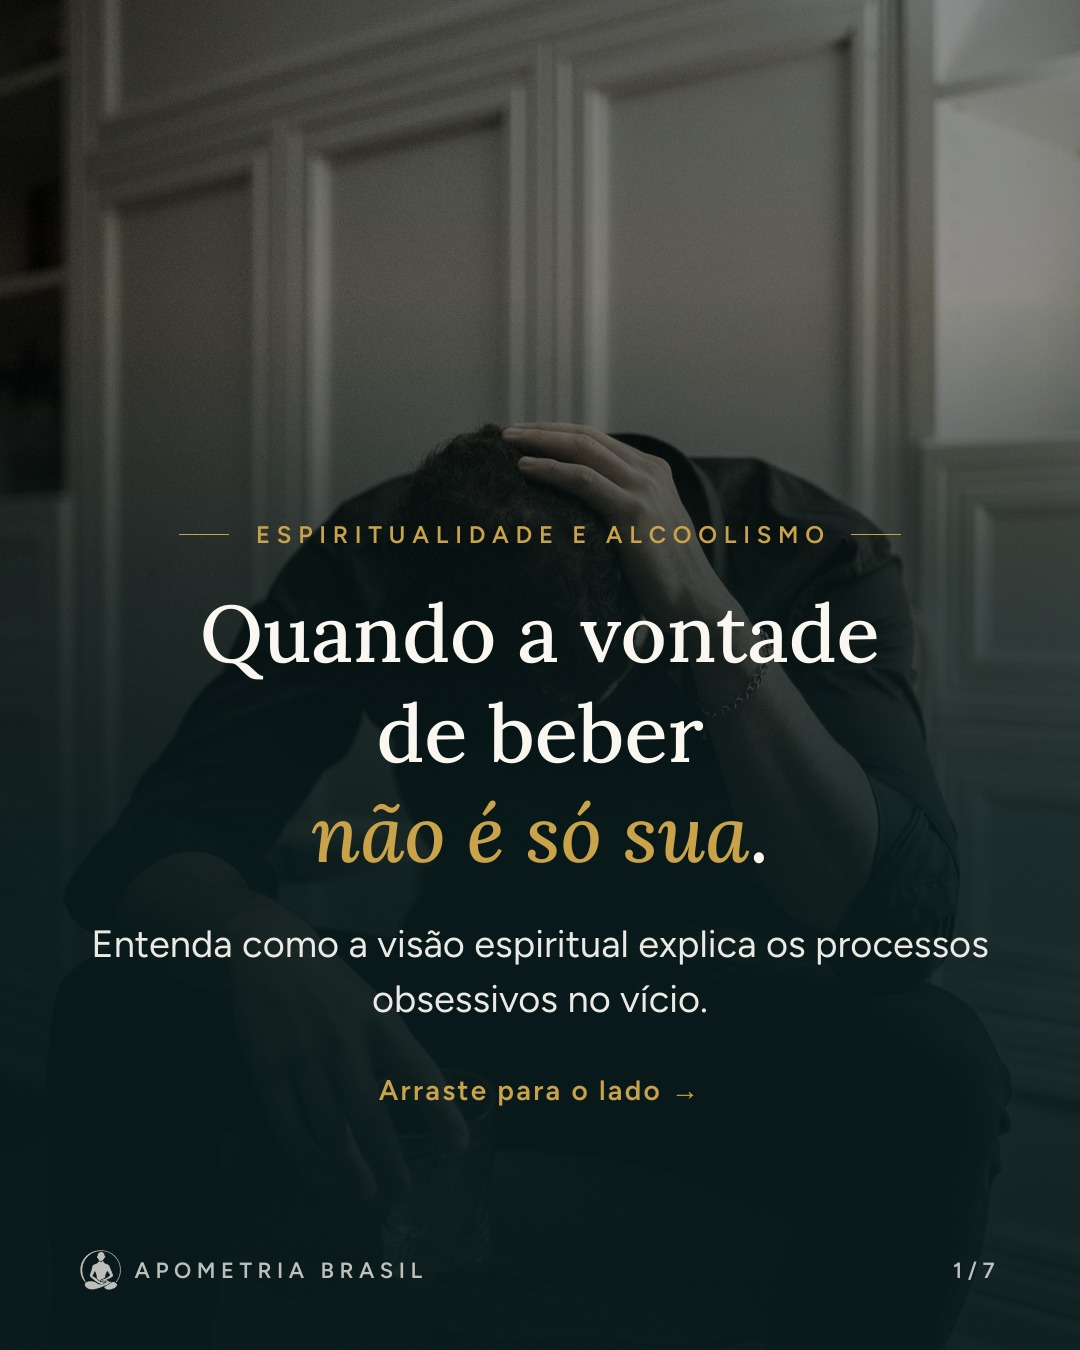
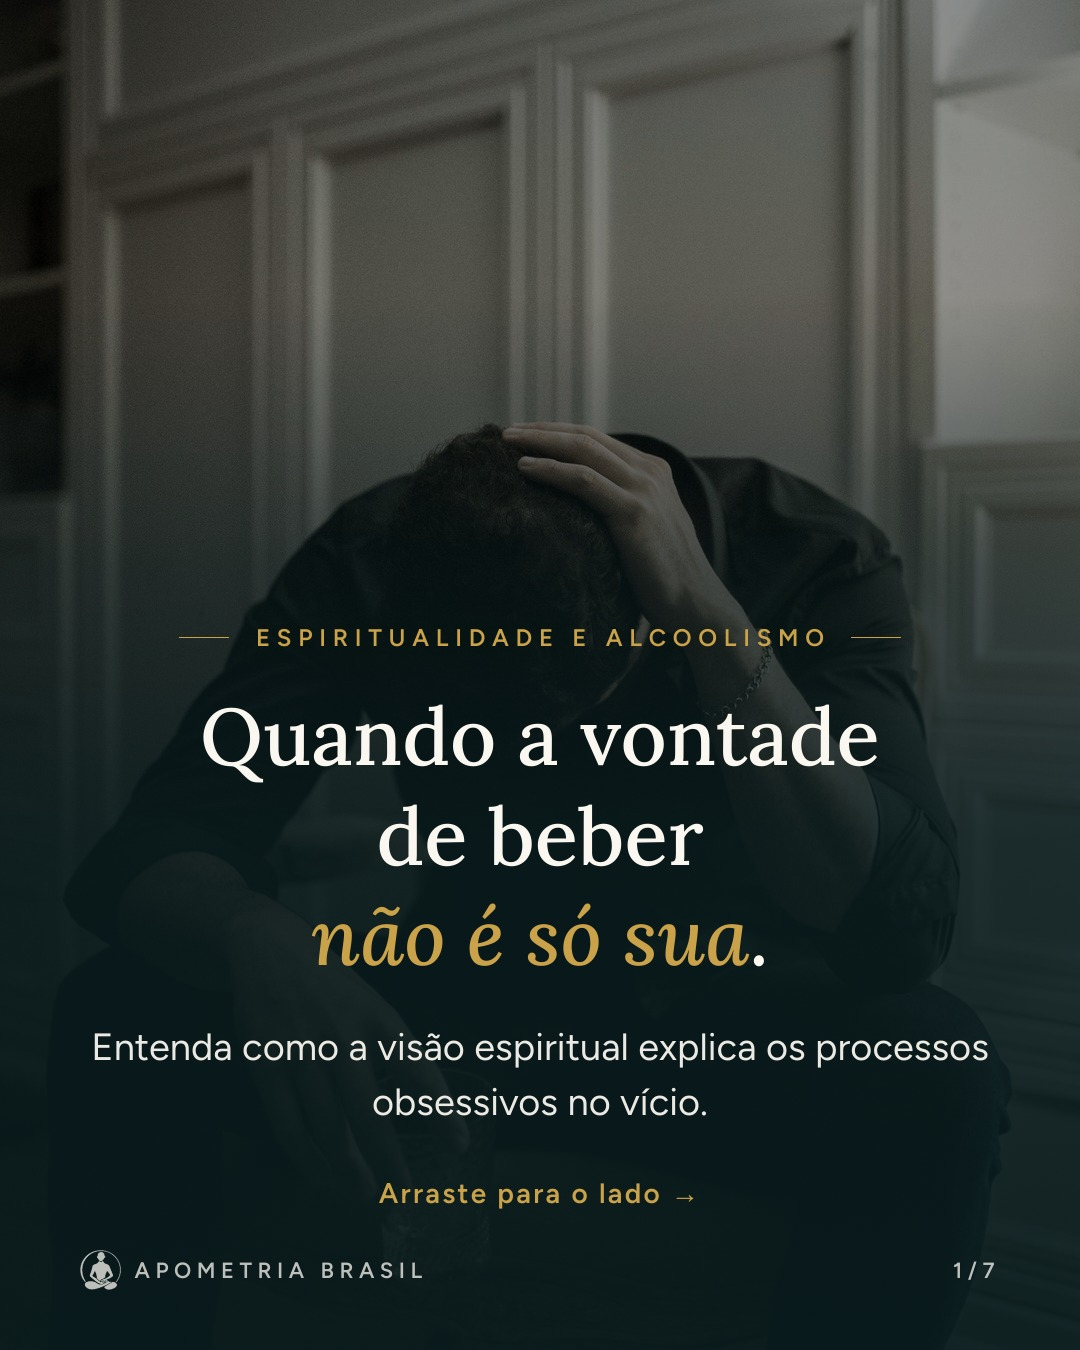
Modelo: texto ancorado embaixo (nunca invade a assinatura), sem palavra sozinha na linha; produção pesadelos: storyboard, lâminas v1 e crítica do Olho
Claude-Session: https://claude.ai/code/session_01JEWNugGqZtfRNNpR6FEnd2

diff --git a/modelos/remotion/src/Carrossel.tsx b/modelos/remotion/src/Carrossel.tsx
@@ -15,7 +15,7 @@ export type Lamina = {
   texto: string;                // texto de apoio
   imagem: string;               // arquivo dentro da pasta da produção
   tom: 'escuro' | 'marca' | 'claro'; // força do degradê por cima da foto
-  topo?: number;                // posição do bloco de texto (px). Padrão: 560 (capa 520)
+  topo?: number;                // opcional: fixa o topo do bloco (px). Sem ele, o bloco fica ancorado embaixo, logo acima da assinatura
   chamada?: string;             // linha extra em destaque (ex.: "Arraste para o lado →")
 };
 export type PropsCarrossel = {pasta: string; identidade: Identidade; laminas: Lamina[]};
@@ -38,7 +38,7 @@ const useFontes = (pasta: string, id: Identidade) => {
 
 // "*trecho*" vira itálico em destaque; pontuação colada ao trecho fica na cor do texto
 const Titulo: React.FC<{txt: string; size: number; id: Identidade}> = ({txt, size, id}) => (
-  <div style={{fontFamily: familia('titulo'), fontWeight: Number(id.fontes.titulo.peso), fontSize: size, lineHeight: 1.25, color: id.cores.texto}}>
+  <div style={{fontFamily: familia('titulo'), fontWeight: Number(id.fontes.titulo.peso), fontSize: size, lineHeight: 1.25, color: id.cores.texto, textWrap: 'balance'} as React.CSSProperties}>
     {txt.split(' / ').map((linha, i) => (
       <div key={i}>
         {linha.split(/(\*[^*]+\*)/g).filter(Boolean).map((p, k) => {
@@ -60,7 +60,7 @@ const Titulo: React.FC<{txt: string; size: number; id: Identidade}> = ({txt, siz
 const degrade = (tom: Lamina['tom'], id: Identidade) => {
   const c = tom === 'escuro' ? id.cores.escuro : id.cores.marca;
   if (tom === 'claro')
-    return `linear-gradient(180deg, rgba(${c},0) 0%, rgba(${c},0) 34%, rgba(${c},0.40) 46%, rgba(${c},0.78) 60%, rgba(${c},0.84) 100%)`;
+    return `linear-gradient(180deg, rgba(${c},0) 0%, rgba(${c},0) 28%, rgba(${c},0.50) 40%, rgba(${c},0.82) 52%, rgba(${c},0.90) 100%)`;
   return `linear-gradient(180deg, rgba(${c},0.10) 0%, rgba(${c},0) 22%, rgba(${c},0.55) 42%, rgba(${c},0.84) 62%, rgba(${c},0.92) 100%)`;
 };
 
@@ -76,7 +76,8 @@ export const Carrossel: React.FC<PropsCarrossel> = ({pasta, identidade: id, lami
     <AbsoluteFill style={{background: '#000'}}>
       <Img src={arq(l.imagem)} style={{width: '100%', height: '100%', objectFit: 'cover'}} />
       <AbsoluteFill style={{background: degrade(l.tom, id)}} />
-      <div style={{position: 'absolute', left: 80, width: 920, top: l.topo ?? (capa ? 520 : 560), textAlign: 'center'}}>
+      {/* Bloco ancorado embaixo: termina acima do rodapé (ou do logo, na última lâmina) */}
+      <div style={{position: 'absolute', left: 80, width: 920, textAlign: 'center', textWrap: 'pretty', ...(l.topo ? {top: l.topo} : {bottom: ultima ? 1350 - 1080 : 1350 - 1210})} as React.CSSProperties}>
         <div style={{display: 'flex', justifyContent: 'center', alignItems: 'center', gap: 20, marginBottom: 34}}>
           <div style={{width: 50, height: 1.5, background: id.cores.destaque}} />
           <div style={{fontFamily: familia('rotulo'), fontWeight: Number(id.fontes.rotulo.peso), fontSize: 24, letterSpacing: '0.28em', paddingLeft: '0.28em', color: id.cores.destaque}}>{l.rotulo}</div>

diff --git a/producoes/2026-11-15-apometria-pesadelos/08-critica-olho.md b/producoes/2026-11-15-apometria-pesadelos/08-critica-olho.md
@@ -1,0 +1,23 @@
+# Crítica visual · Olho · Pesadelos recorrentes (Apometria Brasil)
+
+## Rodada 1
+Data: 15/11/2026 · Imagens avaliadas: `final/lamina-1.jpg` a `final/lamina-8.jpg`, abertas uma por uma, como aparecem no celular.
+
+| Lâm. | Situação | O que está errado | O que fazer | Quem corrige |
+|---|---|---|---|---|
+| 1 | OK | Janela no centro, quarto escuro, sem vulto e sem clima de terror. O título fica sobre a parte de baixo da janela, que está escurecida, e dá para ler bem. Observação leve: o rótulo "ESPIRITUALIDADE E SONO" atravessa o vidro cinza da janela, no meio da altura da lâmina, e fica um pouco mais apagado ali. | Nada obrigatório. Se mexer no degradê de outras lâminas, escurecer um pouco a faixa do rótulo também aqui. | — |
+| 2 | AJUSTAR | **Risco de vulto.** Na parede da esquerda, no terço de cima (entre a moldura da janela e a pessoa), aparece a sombra projetada da cabeça e do ombro da pessoa, um perfil escuro e grande. No celular isso pode ser lido como "uma segunda figura" atrás dela, que é justamente o que a pauta pede para evitar ("sombras de vulto"). A pessoa (cabeça baixa, abraçando os joelhos) está boa e o título não passa sobre a cabeça. | Recortar a foto para tirar a sombra da parede da esquerda (por exemplo, `zoom` 1.25 com `foco` ~[0.62, 0.5], mantendo a pessoa inteira) ou trocar por uma foto de pessoa sentada na beira da cama, de costas, sem sombra projetada. | Lente |
+| 3 | OK | Cabeceira e cama desfeitas, com um feixe de luz diagonal. Coerente com "por que parece tão real", sem terror. Título e texto sobre área escura e uniforme, com boa leitura. | — | — |
+| 4 | AJUSTAR | (a) **Palavra sozinha:** "novo." fica sozinha na última linha do texto de apoio, no centro, logo acima do rodapé. (b) O braço claro da luminária, à direita, passa encostado no "?" de "sonho?", no meio da lâmina. É um risco claro colado na pontuação e parece um traço do layout. A "primeira luz" pedida na pauta está fraca, mas dá para ver (o brilho do abajur à direita, atrás do texto). | (a) Reduzir um pouco a fonte ou alargar a caixa do texto para "novo." subir para a linha de cima. (b) Mover a foto (`foco` ~[0.5, 0.5]) para o braço da luminária sair da altura do título, ou aumentar o brilho só da luz do abajur para ficar visível que é uma luz, e não um risco. | Moldura (a) · Lente (b) |
+| 5 | AJUSTAR | O rótulo dourado "COMO A APOMETRIA OLHA" cai exatamente sobre a travessa horizontal da janela e o vidro claro, logo acima do meio da lâmina. As letras finas douradas se misturam à madeira e à névoa, e no celular quase não dá para ler. O título "Achar o que" também está sobre o vidro claro, no limite do contraste. A foto (amanhecer azulado e cortina aberta) é ótima para a transição. | Escurecer o degradê verde-petróleo na faixa do rótulo e do título (de y≈540 a y≈800), ou subir o bloco de texto uns 40 px para o rótulo sair da travessa. | Moldura |
+| 6 | AJUSTAR | **Texto sobreposto à assinatura.** O bloco começa muito baixo (`topo: 820`), e a 4ª linha do texto ("medo), não entender o assunto. E saber o que acontece de") passa **por cima** do logo, de "APOMETRIA BRASIL" e do "6/8", no rodapé. A última linha ("noite tira o susto.") fica abaixo da assinatura, quase encostando na borda de baixo. No celular, essa linha fica ilegível. Além disso, o rótulo dourado "MEDO DE FALAR NO ASSUNTO" fica sobre a prateleira branca e o aquecedor, na altura de 60% da lâmina, onde o degradê ainda está claro, e o contraste fica fraco. A foto (plantas, manhã clara) é coerente e não tem nada de vulto. | Subir o bloco de texto (tirar o `topo: 820` e usar o mesmo início das lâminas 1 a 5, ~575 px) e começar o degradê mais alto, para o rótulo e o título ficarem sobre o verde e não sobre o branco. Garantir pelo menos ~60 px livres entre a última linha e a assinatura. | Moldura |
+| 7 | AJUSTAR | **Mesmo problema da 6.** A última linha ("E, se já faz tratamento, vale seguir o que foi combinado.") fica **em cima** do logo, de "APOMETRIA BRASIL" e do "7/8", no rodapé. As duas camadas de texto se misturam e nenhuma das duas dá para ler. O rótulo dourado sobre o verde-acinzentado fica no limite do contraste, mas ainda dá para ler. A foto (edredom branco, travesseiros, luz quente) é coerente e calma. | Subir o bloco (tirar o `topo: 820`), começar o degradê mais alto e deixar a faixa do texto um pouco mais escura (verde-petróleo `#14464A` com ~85% de opacidade). Deixar uma folga mínima acima da assinatura. | Moldura |
+| 8 | AJUSTAR | Pior lâmina da sequência. (a) **Sobreposição grave:** o logo grande, centralizado, cai **em cima da palavra "acontecendo"** (2ª linha do texto, no terço de baixo), e "menos pesado." fica sozinha numa linha e encosta em "APOMETRIA BRASIL". (b) **Luminária no texto:** a haste da luminária desce pelo centro da lâmina e atravessa o título, passando atrás do "v" de "volte". A lâmpada fica pendurada logo acima do rótulo, e o galho seco do vaso passa atrás do fim do rótulo, de "volte" e de "descansar". O vaso branco aparece atrás da 1ª e da 2ª linhas do texto. Há muito elemento atrás de letra fina. (c) A metade de cima ficou **branca e estourada** (`brilho` 1.15 sobre uma foto que já é branca), e na altura de ~35% da lâmina aparece um corte horizontal duro onde o degradê começa. Parece defeito de renderização, e a "manhã clara e calma" pedida na pauta some: sobra uma faixa branca vazia em cima e um bloco verde embaixo. | (a) Moldura: refazer o rodapé da última lâmina. Assinatura com logo pequeno (até ~60 px) **abaixo** do texto, sem cruzar nenhuma linha, e o texto de apoio subindo o suficiente para "menos pesado." ficar com folga. Tirar o `topo: 820` e suavizar o degradê (sem a linha dura). (b)+(c) Lente: trocar a foto ou recortar para a luminária e o vaso saírem da faixa central do texto (luminária na borda ou fora do quadro), com área lisa (lençol, parede) atrás do título e do texto. Baixar o `brilho` para ~1.0 para a parte de cima ter textura de luz da manhã, e não branco puro. | Moldura (a) · Lente (b, c) |
+
+**Sequência de tons (vista em conjunto):** escuro (1 a 3) → primeira luz (4) → transição verde-petróleo (5) → claro (6 a 8). O pedido foi respeitado. Nenhuma foto tem rosto, olhos no escuro, relógio ou vela. O único ponto de "vulto" é a sombra na parede da lâmina 2.
+
+**Causa comum das lâminas 6, 7 e 8:** o `topo: 820` no `07-storyboard.json` empurra o bloco de texto para baixo nas lâminas claras e faz o texto bater na assinatura. Nas lâminas 1 a 5, que não usam esse valor, nada encosta no rodapé. O contraste do texto creme sobre o verde do degradê está bom nas três lâminas. O que fica fraco é o **rótulo dourado** quando cai na parte em que o degradê ainda está claro (6 e, em menor grau, 7 e 8).
+
+**Veredito: AJUSTAR** (lâminas 2, 4, 5, 6, 7 e 8).
+- Moldura: lâminas 4 (palavra sozinha), 5 (contraste do rótulo), 6, 7 e 8 (bloco sobre a assinatura, degradê, logo da lâmina 8).
+- Lente: lâmina 2 (sombra na parede), lâmina 4 (braço da luminária colado no "?"), lâmina 8 (luminária e vaso atrás do texto, brilho estourado).
